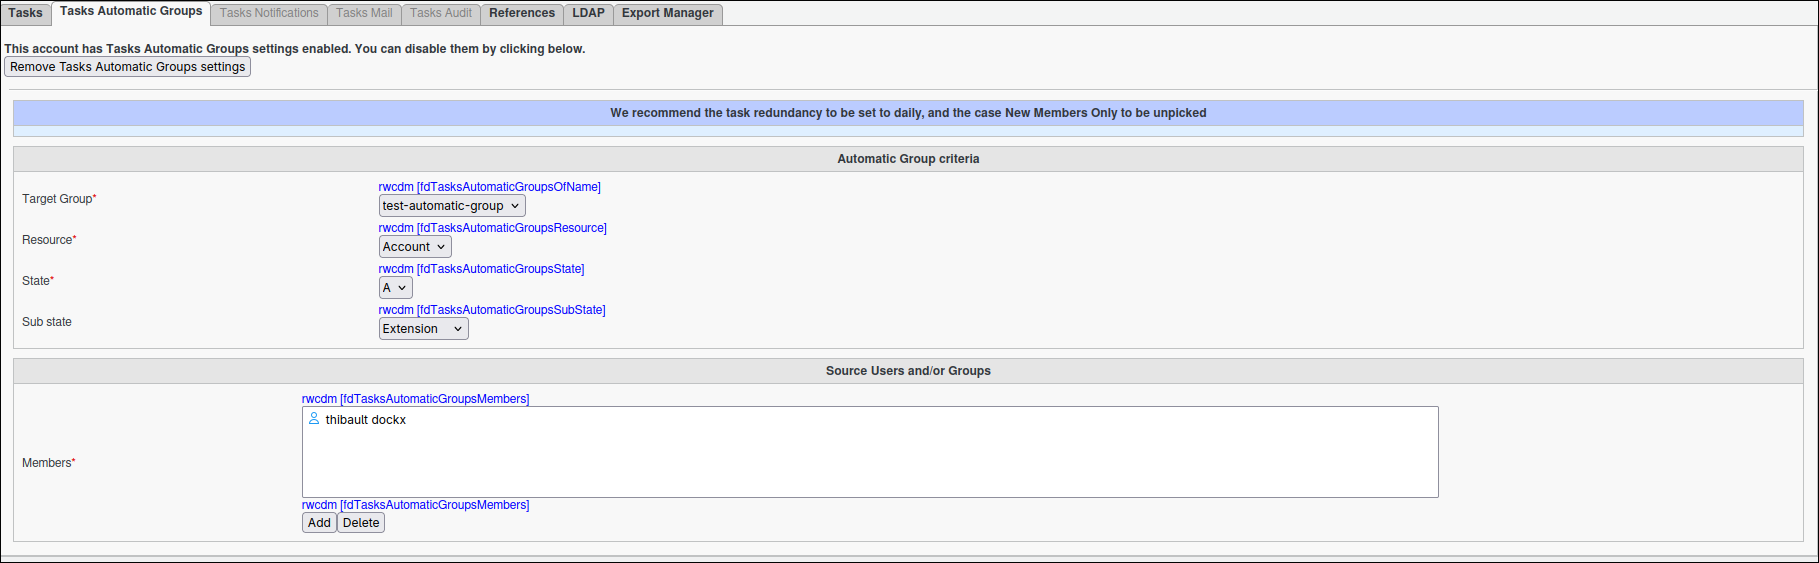
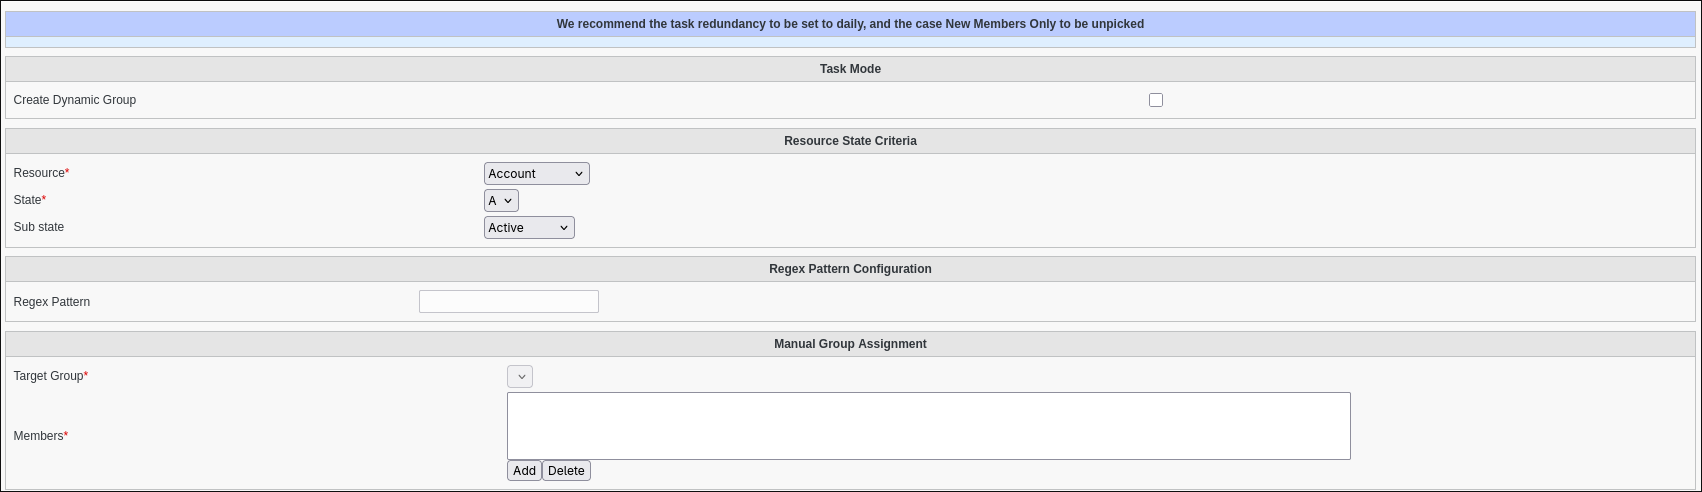
:sparkles: Feat(AutomaticGroups) - enhancement of doc

diff --git a/source/fusiondirectory/plugins/automatic-groups/automaticGroups.rst b/source/fusiondirectory/plugins/automatic-groups/automaticGroups.rst
@@ -20,24 +20,67 @@ Creating the Task
       :alt: Automatic Groups - Task creation step 1
       :width: 600px
 
+
 Configuring Automatic Groups Task
 ---------------------------------
 
 - **Navigate** to the **Tasks Automatic Groups** tab.
-- **Select** the target group where users will be added or removed.
-- **Choose** the resource, state, and (optionally) sub-state that users must have to be included in the group.
-- **Assign** the relevant members or groups whose membership will be managed.
-
-.. note::
-   You can select either individual users or groups for processing. When groups are selected, all members will be processed individually.
-
-   The **resource** field can also be set to a regular expression (regex). When a regex is used, any resource name matching the pattern will be taken into consideration. If members possess any of these matching resources with the specified state and sub-state, they will be added to the target group.
-
 
 .. image:: images/automaticGroups-p2.png
   :alt: Automatic Groups - Task creation step 2
   :width: 600px
-  
+
+The automatic groups task supports two operating modes:
+
+1. **Standard Group Assignment**: Adds or removes users from an existing group based on their Supann resource state criteria
+2. **Dynamic Group Creation**: Creates a dynamic group with a memberURL filter matching the specified Supann resource state
+
+How It Works
+------------
+
+Standard Group Assignment
+^^^^^^^^^^^^^^^^^^^^^^^^^
+
+When the standard automatic groups task executes:
+
+1. The system identifies all users specified in the task configuration (either directly or through group membership)
+2. For each user, it checks their Supann resource state against the criteria defined in the task
+3. Users who match the criteria are added to the target group
+4. Users who no longer match the criteria are removed from the target group
+
+This ensures that group memberships remain synchronized with the current state of users in your directory.
+
+.. note::
+   Regex is available for the Supann resource criteria, allowing for flexible matching resource patterns.
+
+Dynamic Group Creation
+^^^^^^^^^^^^^^^^^^^^^^
+
+When the dynamic group creation task executes:
+
+1. The system generates a dynamic group name based on the resource, state, and optional substate
+2. It builds an LDAP URL with a filter for the specified Supann resource state criteria
+3. It creates a new dynamic group with the generated name and LDAP URL filter
+4. If a group with the same name already exists, the task succeeds without modifying the existing group
+
+The resulting dynamic group will automatically include all users whose Supann resource state matches the specified criteria, using LDAP's dynamic membership capabilities.
+
+.. note::
+   Regex is only available for the standard group assignment mode, not for dynamic group creation.
+
+Dynamic Group Structure
+-----------------------
+
+Dynamic groups created by this task have the following structure:
+
+- **Name Pattern**: dynamic-{resource}-{state}[-{substate}] (always lowercase)
+- **LDAP URL**: ldap:///ou=people,{base_dn}??one?(supannRessourceEtat={resource}{state}[:substate])
+
+For example, a dynamic group for resource "COMPTE" with state "A" would be:
+
+- Name: dynamic-compte-a
+- LDAP URL: ldap:///ou=people,dc=example,dc=com??one?(supannRessourceEtat={COMPTE}A)
+
 Task Execution
 --------------
 
@@ -47,7 +90,8 @@ Add the `--automatic-groups` parameter to your orchestrator client execution:
 
 .. code-block:: bash
 
-   fusiondirectory-orchestrator-client --automatic-groups
+   fusiondirectory-orchestrator-client --automatic-groups   # For standard group assignment mode
+   fusiondirectory-orchestrator-client --automatic-groups dynamic-group # For dynamic group creation mode
 
 This can be scheduled via cron for regular execution.
 
@@ -61,7 +105,11 @@ The **Automatic Groups Task**, when configured as described, will:
 - **Add** users to the target group if they match the criteria.
 - **Remove** users from the target group if they no longer match the criteria.
 
+If using **dynamic group creation**, it will:
+
+- **Create** a dynamic group with a name based on the resource, state, and optional substate.
+- **Set** the group's memberURL to filter users based on the specified Supann resource state criteria.
+- **Skip** creation if a group with the same name already exists.
+
 .. note::
    This ensures group memberships are always in sync with users' current states, automating what would otherwise be a manual administrative task.
-
-

diff --git a/source/fusiondirectory-orchestrator/endpoints/automatic-groups.rst b/source/fusiondirectory-orchestrator/endpoints/automatic-groups.rst
@@ -15,41 +15,6 @@ Once the automatic groups task is configured in FusionDirectory, execute it usin
 .. note::
    Add the ``--verbose`` flag to the command for detailed output during execution.
 
-Task Types
-----------
-
-The automatic groups task supports two operating modes:
-
-1. **Standard Group Assignment**: Adds or removes users from an existing group based on their Supann resource state criteria
-2. **Dynamic Group Creation**: Creates a dynamic group with a memberURL filter matching the specified Supann resource state
-
-How It Works
-------------
-
-Standard Group Assignment
-^^^^^^^^^^^^^^^^^^^^^^^^^
-
-When the standard automatic groups task executes:
-
-1. The system identifies all users specified in the task configuration (either directly or through group membership)
-2. For each user, it checks their Supann resource state against the criteria defined in the task
-3. Users who match the criteria are added to the target group
-4. Users who no longer match the criteria are removed from the target group
-
-This ensures that group memberships remain synchronized with the current state of users in your directory.
-
-Dynamic Group Creation
-^^^^^^^^^^^^^^^^^^^^^^
-
-When the dynamic group creation task executes:
-
-1. The system generates a dynamic group name based on the resource, state, and optional substate
-2. It builds an LDAP URL with a filter for the specified Supann resource state criteria
-3. It creates a new dynamic group with the generated name and LDAP URL filter
-4. If a group with the same name already exists, the task succeeds without modifying the existing group
-
-The resulting dynamic group will automatically include all users whose Supann resource state matches the specified criteria, using LDAP's dynamic membership capabilities.
-
 Examples
 --------
 
@@ -74,15 +39,3 @@ With Verbose Output
 
    fusiondirectory-orchestrator-client --automatic-groups --verbose
    fusiondirectory-orchestrator-client --automatic-groups dynamic-group --verbose
-
-Dynamic Group Structure
------------------------
-
-Dynamic groups created by this task have the following structure:
-
-- **Name Pattern**: dynamic-{resource}-{state}[-{substate}] (always lowercase)
-- **LDAP URL**: ldap:///ou=people,{base_dn}??one?(supannRessourceEtat={resource}{state}[:substate])
-
-For example, a dynamic group for resource "COMPTE" with state "A" would be:
-- Name: dynamic-compte-a
-- LDAP URL: ldap:///ou=people,dc=example,dc=com??one?(supannRessourceEtat={COMPTE}A)
